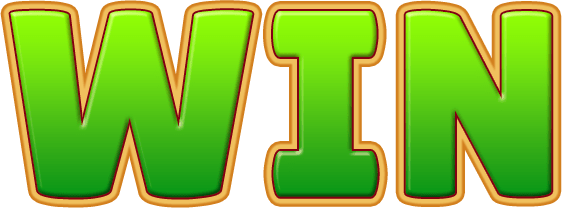
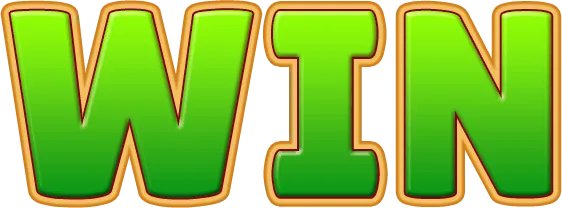
Delete the source art nothing imports
The earlier sweep removed orphan .webp derivatives and kept every .png on the
grounds that the PNG is the source of truth. For the layers that no longer have a
shipped form, that reasoning does not hold: a source of truth for nothing is just
weight in the delivery.

Eighteen files, ~1.2 MB. Fourteen layer PNGs — the two blackouts, wall, frame,
DRAG_TO_MERGE, error_vertic, the two spare gems, rock01_0006, the old sound
icons, and two endcard ray glows — plus four vfx scratch files, of which the 4x4
smoke grid alone was 333 KB. All recoverable from git history.

manifest.json keeps their entries deliberately. A lookup on a missing layer
returns null, and `box()` can still report where something was after its pixels
are gone.

Comments that named the deleted files are corrected rather than left dangling:
board2d on the fourth gem colour, dust.js and layers.js on the smoke sheet they
chose against, layers.js on the confetti encoding, and optimize-art on what the
vfx ship list was protecting. `npm run art` still resolves all 42 shipped files
with no missing warnings, 83 tests green, bundle unchanged at 3,070.81 kB —
none of this was ever in the build, which is the point.

diff --git a/playable/src/layers.js b/playable/src/layers.js
@@ -31,13 +31,13 @@ import sparkleUrl from '../../assets/art/vfx/sparkle2.webp?url';
 // The win outro's rope. Tiled along a MeshRope whose length is derived from the viewport, so
 // the strip ships once at 32x256 and serves any aspect ratio — see rope.js.
 import ropeUrl from '../../assets/art/vfx/rope.webp?url';
-// The landing dust. ONE soft puff, not the vfx_smoke_3-grid4x4.png sitting beside it in the
-// folder — that sheet is 333 KB, ~440 KB once inlined, for half a second of effect at the very
-// start of the round. See dust.js for what stands in for its frames.
+// The landing dust. ONE soft puff, not the animated 4x4 smoke grid that used to sit beside it —
+// that sheet was 333 KB, ~440 KB once inlined, for half a second of effect at the very start of
+// the round. See dust.js for what stands in for its frames.
 import smokeUrl from '../../assets/art/vfx/vfx_smoke.webp?url';
 
-// Confetti scraps. Stay .png for the same reason vfx_star did — at 42x49 and ~750 bytes each
-// they come out BIGGER as WebP (see the note in tools/optimize-art.mjs). 2.3 KB for all three.
+// Confetti scraps. These stay .png: at 42x49 and ~750 bytes each they come out BIGGER as WebP
+// (see the note in tools/optimize-art.mjs). 2.3 KB for all three.
 import conf0Url from '../../assets/art/vfx/part_eff_0.png?url';
 import conf1Url from '../../assets/art/vfx/part_eff_1.png?url';
 import conf2Url from '../../assets/art/vfx/part_eff_2.png?url';
@@ -64,8 +64,8 @@ import plateUrl from '../../assets/art/layers/plate_single.webp?url';
 import gemBlueUrl from '../../assets/art/layers/gem_blue_teardrop.webp?url';
 import gemGreenUrl from '../../assets/art/layers/gem_green_square.webp?url';
 import gemRedUrl from '../../assets/art/layers/gem_red_heart.webp?url';
-// gem_orange_diamond.webp is deliberately NOT imported — the board plays on three colours, and
-// an eager import here would bundle the file whether or not anything ever draws it.
+// There is no fourth gem here on purpose — the board plays on three colours. See board2d.js for
+// which one was dropped and why.
 
 import particle0Url from '../../assets/art/layers/plate_particle_0.webp?url';
 import particle1Url from '../../assets/art/layers/plate_particle_1.webp?url';

diff --git a/playable/src/board2d.js b/playable/src/board2d.js
@@ -27,8 +27,9 @@ import { ShineEmitter } from './shine.js';
 // drained", not "board cleared". More distinct shapes is simply slower to read at cell size,
 // and an ad is judged on comprehension in the first two seconds.
 //
-// The dropped one is the yellow diamond (gem_orange_diamond.webp, still in assets/): against
-// the sandstone backdrop and the yellow pillar it was the least separable of the four.
+// The dropped one is the yellow diamond: against the sandstone backdrop and the yellow pillar it
+// was the least separable of the four. Its layer has since been removed from assets/ along with
+// everything else nothing imports; it is in git history if the fourth colour is ever wanted.
 const COLORS = [0x4fc3f7, 0x5ec46a, 0xff5b6b];
 
 // Chip tints, derived from COLORS so the two can never drift apart.

diff --git a/playable/src/dust.js b/playable/src/dust.js
@@ -1,7 +1,7 @@
 // Dust kicked up under his feet when he lands.
 //
-// One soft 128px puff drawn a dozen times, not a sprite sheet. The animated 4x4 smoke grid in
-// vfx/ is 333 KB and would be ~440 KB inlined, for an effect that is on screen for half a second
+// One soft 128px puff drawn a dozen times, not a sprite sheet. The animated 4x4 smoke grid this
+// replaced was 333 KB and would have been ~440 KB inlined, for an effect on screen for half a second
 // at the very start — the same trade chest.js made when it dropped its sheet for a tween. What a
 // billow actually needs is to spread, swell and thin out, and all three of those are transforms.
 //

diff --git a/assets/README.md b/assets/README.md
@@ -40,9 +40,11 @@ texture serves two boxes, as the CTA does with the win card's button. `url(name)
 no placement, for anything positioned by code rather than by the document. `layer(name)` insists on
 both and returns null if either is missing.
 
-The extract holds every layer of the document; 35 of them ship. `manifest.json` still carries a few
-entries whose art was deleted — harmless, since a lookup on one simply returns null, and the box is
-occasionally still wanted after the pixels are gone.
+The extract originally held every layer of the document. **It now holds only the 35 that ship** —
+anything nothing imported has been deleted, and `manifest.json` still carries those entries. That is
+harmless and occasionally useful: a lookup on a missing layer returns null, and `box()` can still
+report where something *was* after its pixels are gone. Deleted layers are recoverable from git
+history if a design decision is ever revisited.
 
 **PNG is the source of truth; WebP is the shipped form.** `npm run art` transcodes one to the other:
 
